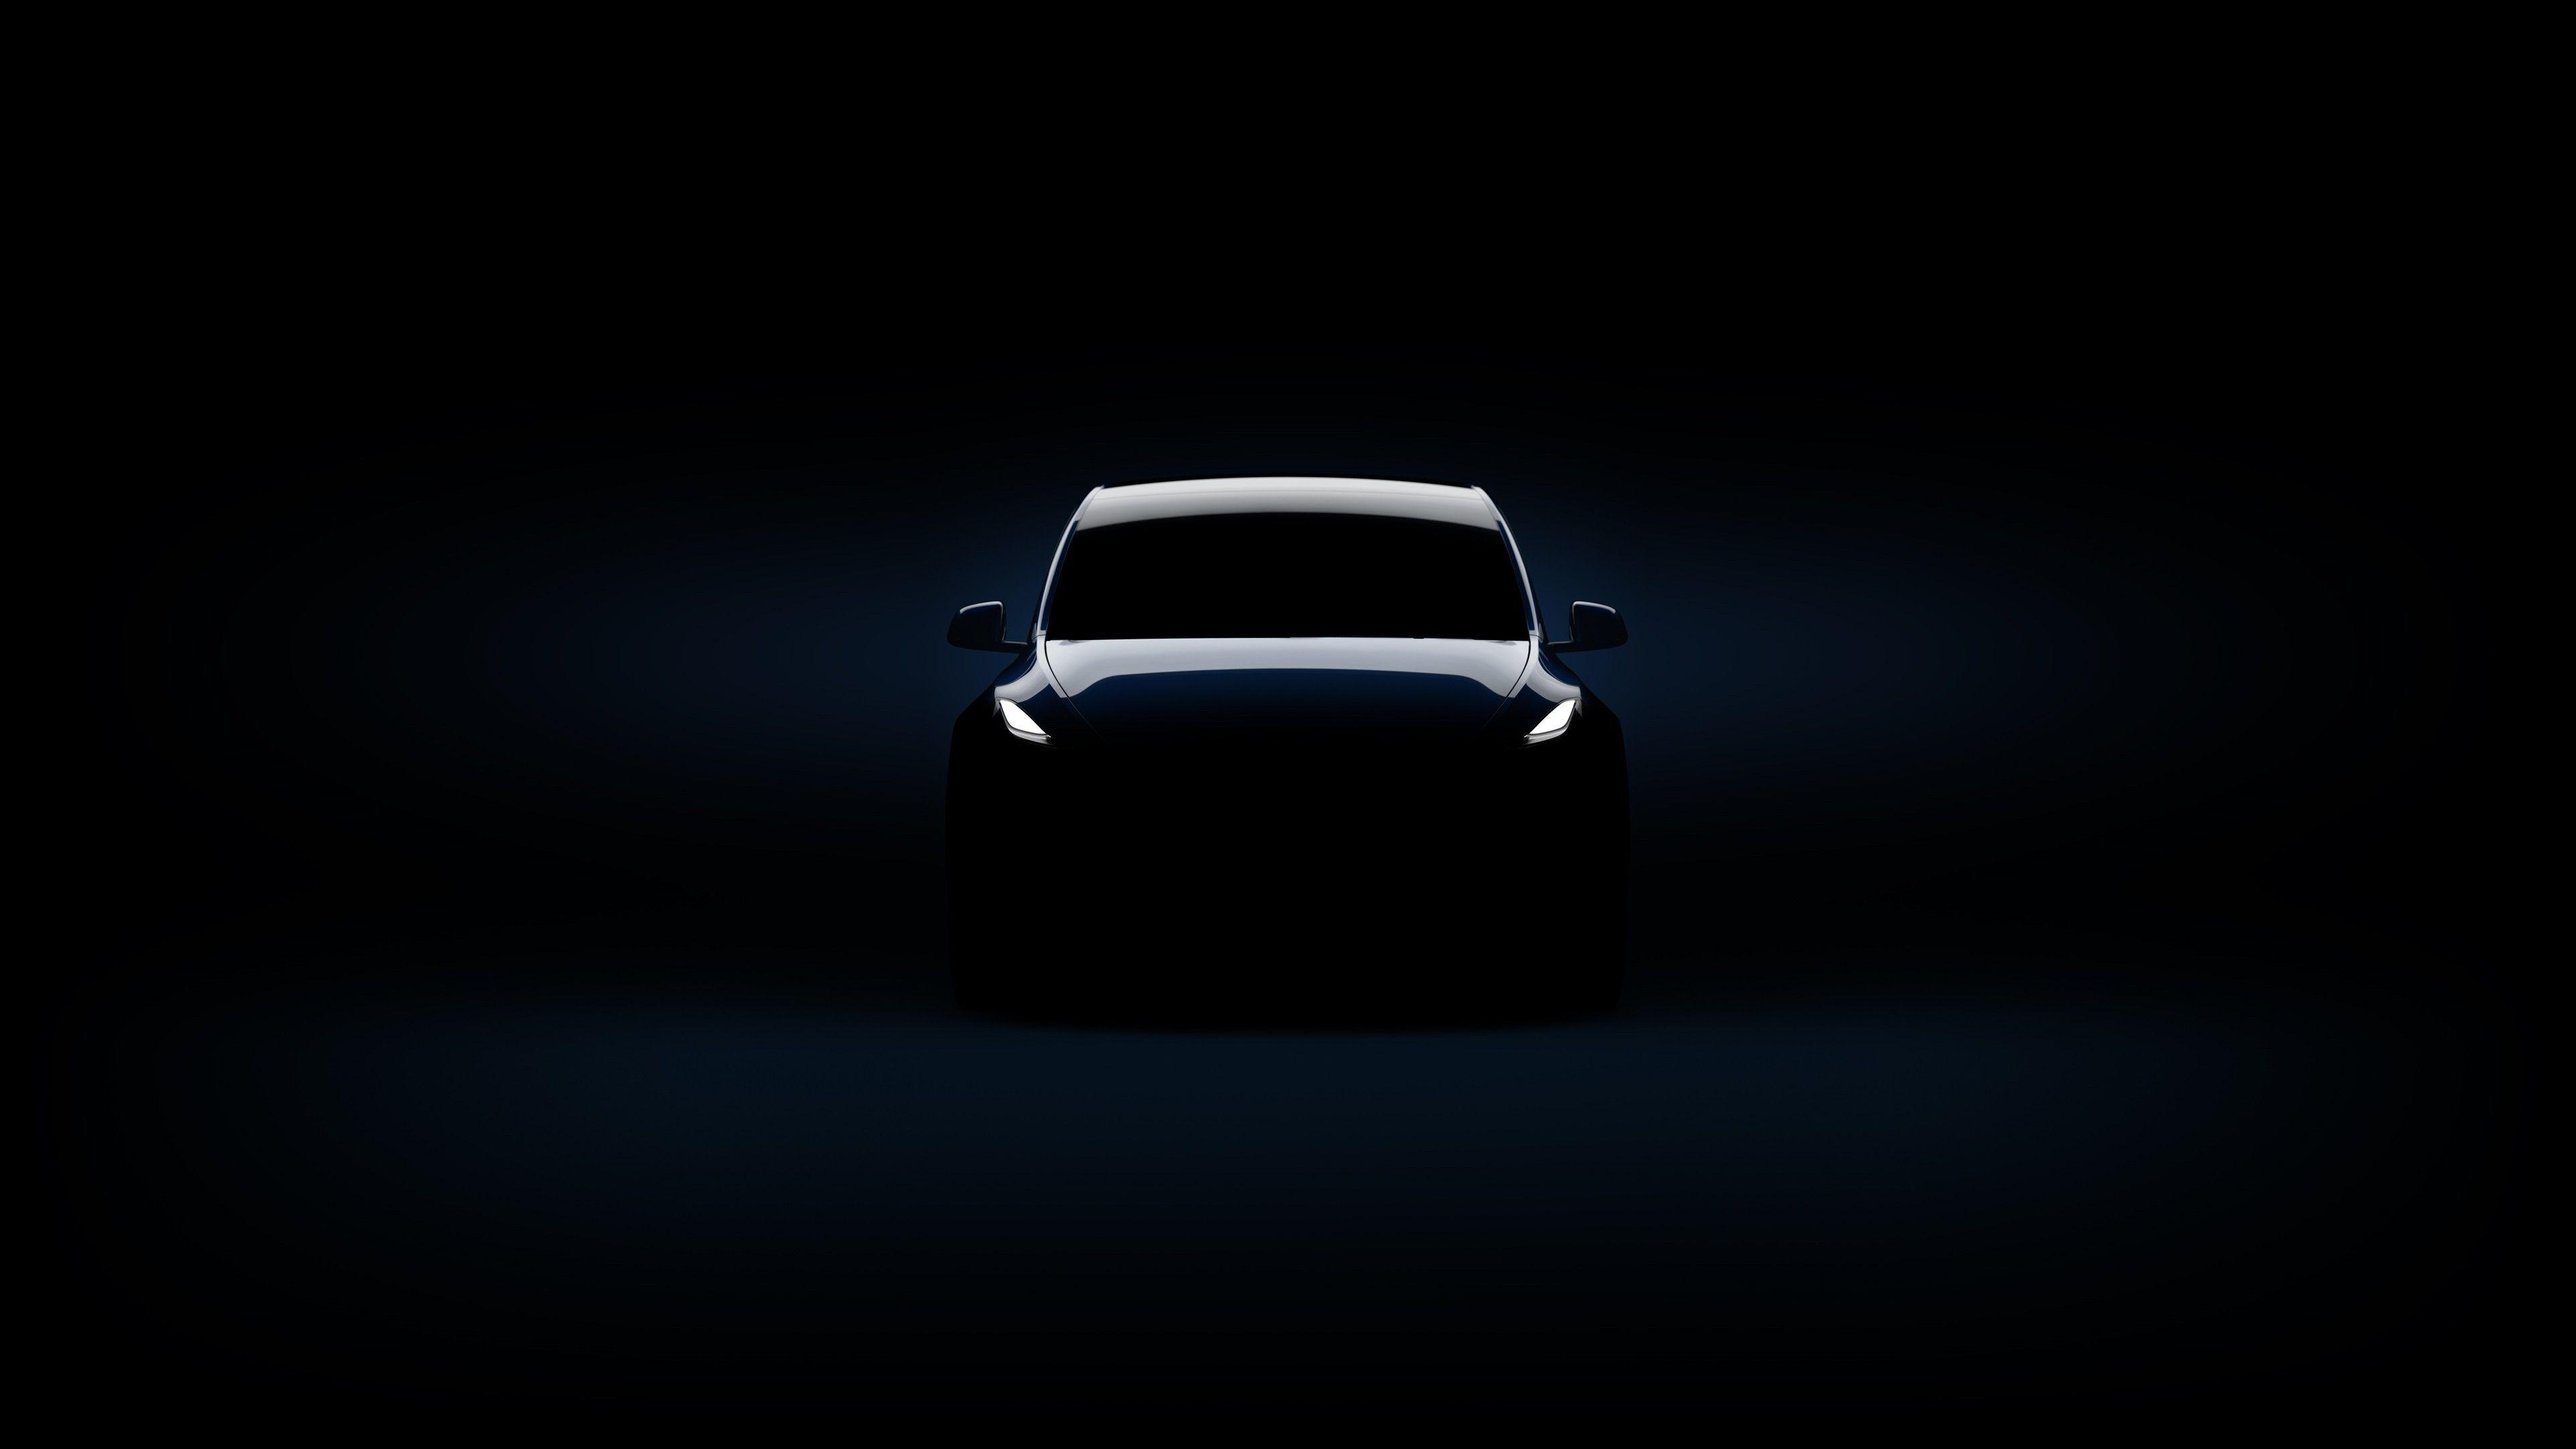
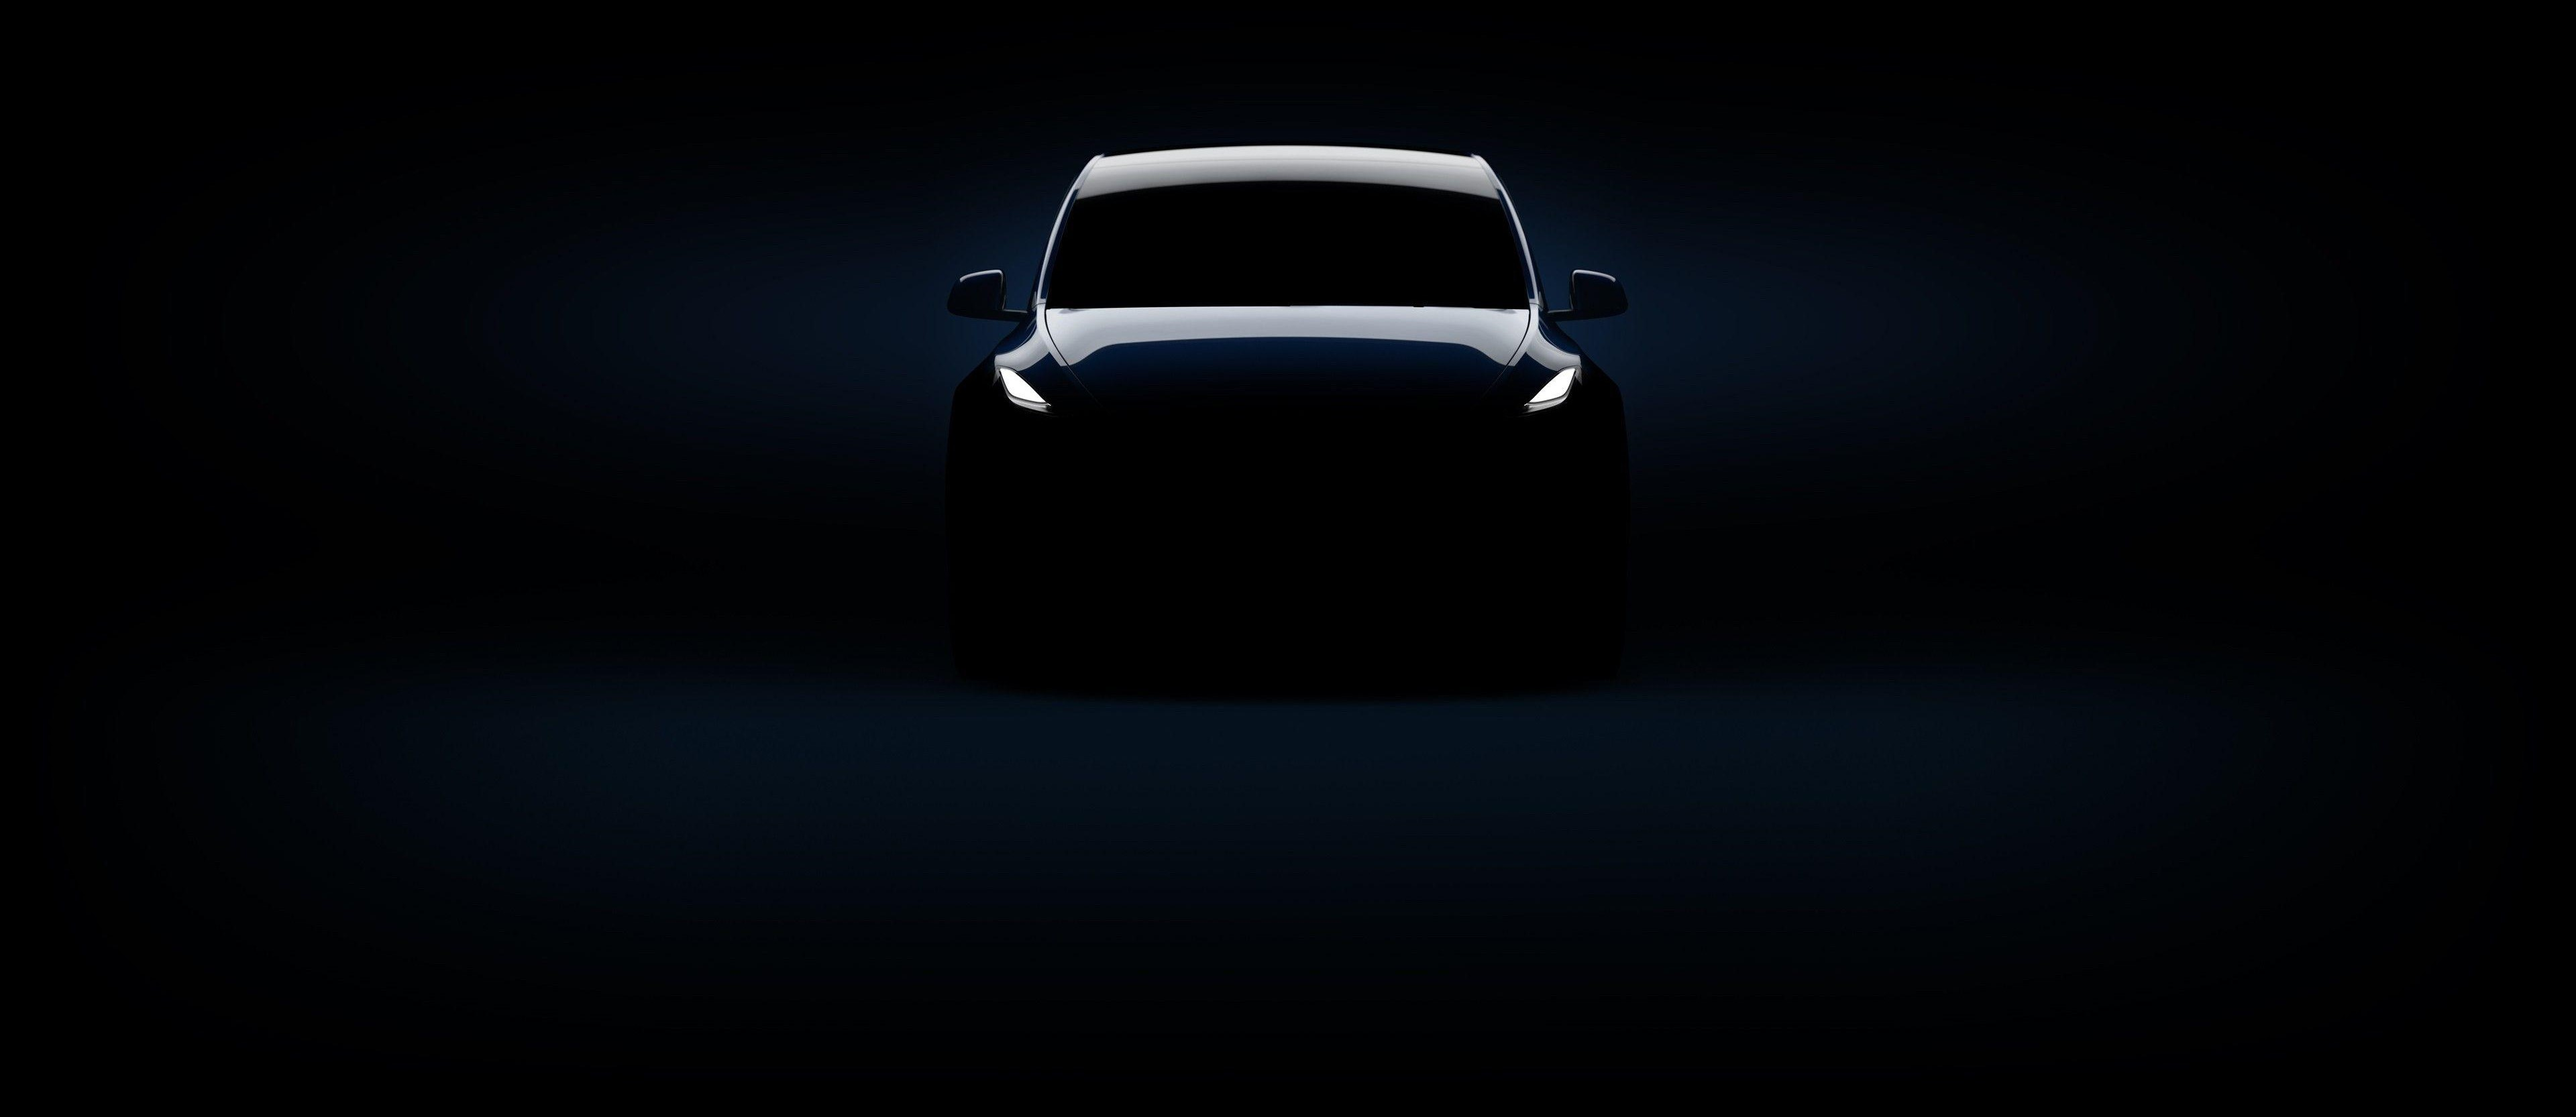
update

Changed region(s): [[0.2812, 0.1248, 0.75, 0.5306], [0.25, 0.6242, 0.6562, 0.7179], [0.6875, 0.6242, 0.7188, 0.6555]]

diff --git a/src/index.html b/src/index.html
@@ -23,7 +23,7 @@
           </svg>
         </a>
 
-        <address class="adress">
+        <!-- <address class="adress">
           <ul class="adress-nav list">
             <li>
               <a
@@ -38,7 +38,7 @@
               >
             </li>
           </ul>
-        </address>
+        </address> -->
         <ul class="social-list list">
           <li class="social-list-item">
             <a href="" class="social-list-link">
@@ -54,17 +54,31 @@
               </svg>
             </a>
           </li>
+          <li class="social-list-item">
+            <a href="" class="social-list-link">
+              <svg class="social-list-icon" width="26" height="26">
+                <use href="./images/sprite.svg#icon-telegram"></use>
+              </svg>
+            </a>
+          </li>
+          <li class="social-list-item">
+            <a href="" class="social-list-link">
+              <svg class="social-list-icon" width="26" height="26">
+                <use href="./images/sprite.svg#icon-viber"></use>
+              </svg>
+            </a>
+          </li>
         </ul>
       </div>
     </header>
     <main>
-      <section class="header">
+      <!-- <section class="header">
         <h1 class="header-title">Tesla Service Moldova</h1>
         <div class="container header-container"></div>
-      </section>
+      </section> -->
       <section class="services">
         <div class="container">
-          <h2 class="services-title">Какие услуги предоставляем</h2>
+          <h2 class="services-title">Популярные услуги</h2>
           <ul class="services-list list">
             <li class="services-list-item">
               <div class="services-icon">

diff --git a/src/css/styles.css b/src/css/styles.css
@@ -42,7 +42,12 @@ ul {
 .page-header{
     border-bottom: 1px solid #e7e9fc;
     box-shadow: 0px 1px 6px 0px rgba(46, 47, 66, 0.08), 0px 1px 1px 0px rgba(46, 47, 66, 0.16), 0px 2px 1px 0px rgba(46, 47, 66, 0.08);
-    
+    height: 500px;
+    background-image: url("../images/teslablack.jpg");
+    background-color: black;
+    background-repeat: no-repeat;
+    background-size: cover;
+    margin-bottom: 72px;
 }
 .page-header-container{
     max-width: 1900px;
@@ -51,15 +56,12 @@ ul {
     text-align: center;
    
     justify-content: space-between;
-    background-color: rgb(255, 255, 255);
+    
 }
 .logo-icon{
     padding: 20px;
-    fill: rgb(9, 11, 19);
+    fill: rgb(255, 255, 255);
 }
-/* .social-list-icon{
- fill:rgb(10, 11, 19);
-}  */
 
 .contact-adress{
     color: rgb(9, 11, 19);
@@ -68,7 +70,7 @@ ul {
 .header{
     max-width: 1600px;
     margin: 0 219px;
-    height: 800px;
+    height: 550px;
     background-image: url("../images/teslablack.jpg");
     background-color: black;
     background-repeat: no-repeat;
@@ -83,12 +85,15 @@ ul {
     display: flex;
     justify-content: center;
     align-items: center;
-    width: 32px;
-    height: 32px;
-    background-color: rgb(255, 255, 255);
-    border-radius: 50%;}
+    width: 24px;
+    height: 24px;
+    /* background-color: rgb(255, 255, 255); */
+    border-radius: 50%;
+}
 
-
+.social-list-icon{
+    fill: white;
+}
 
 .social-list{
         padding: 20px;
@@ -122,6 +127,7 @@ ul {
 
 .services-icon{
     background-color: #F4F4FD;
+
     box-shadow: 0 4px 4px 0 rgba(0, 0, 0, 0.25);
     border-radius: 4px;
     color: var(--primary-text-color);
